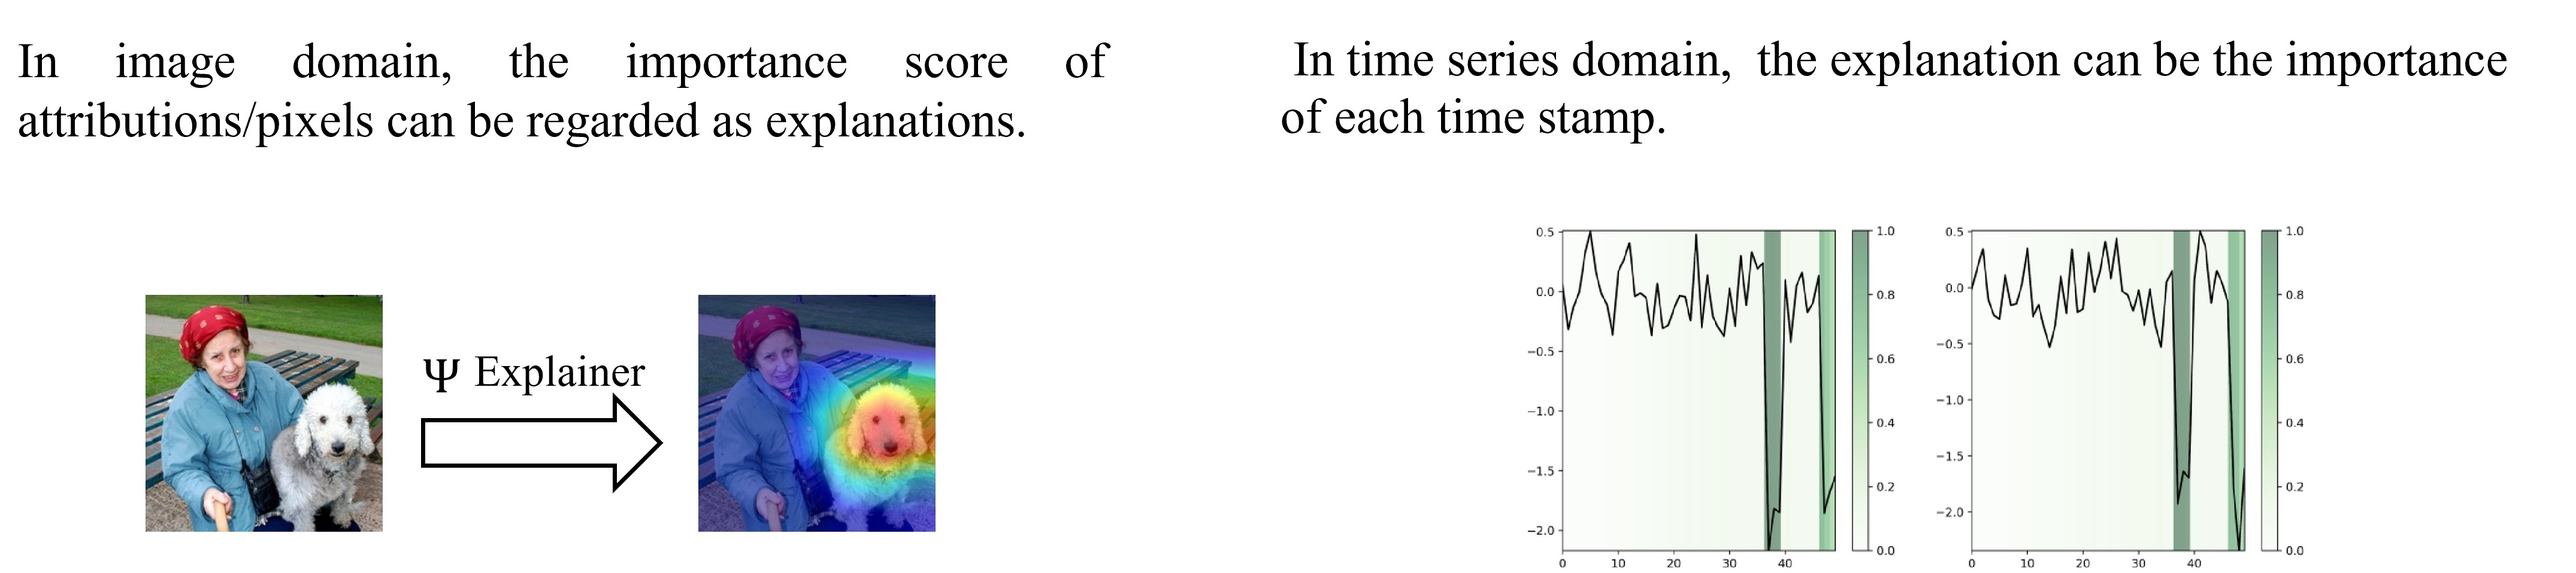
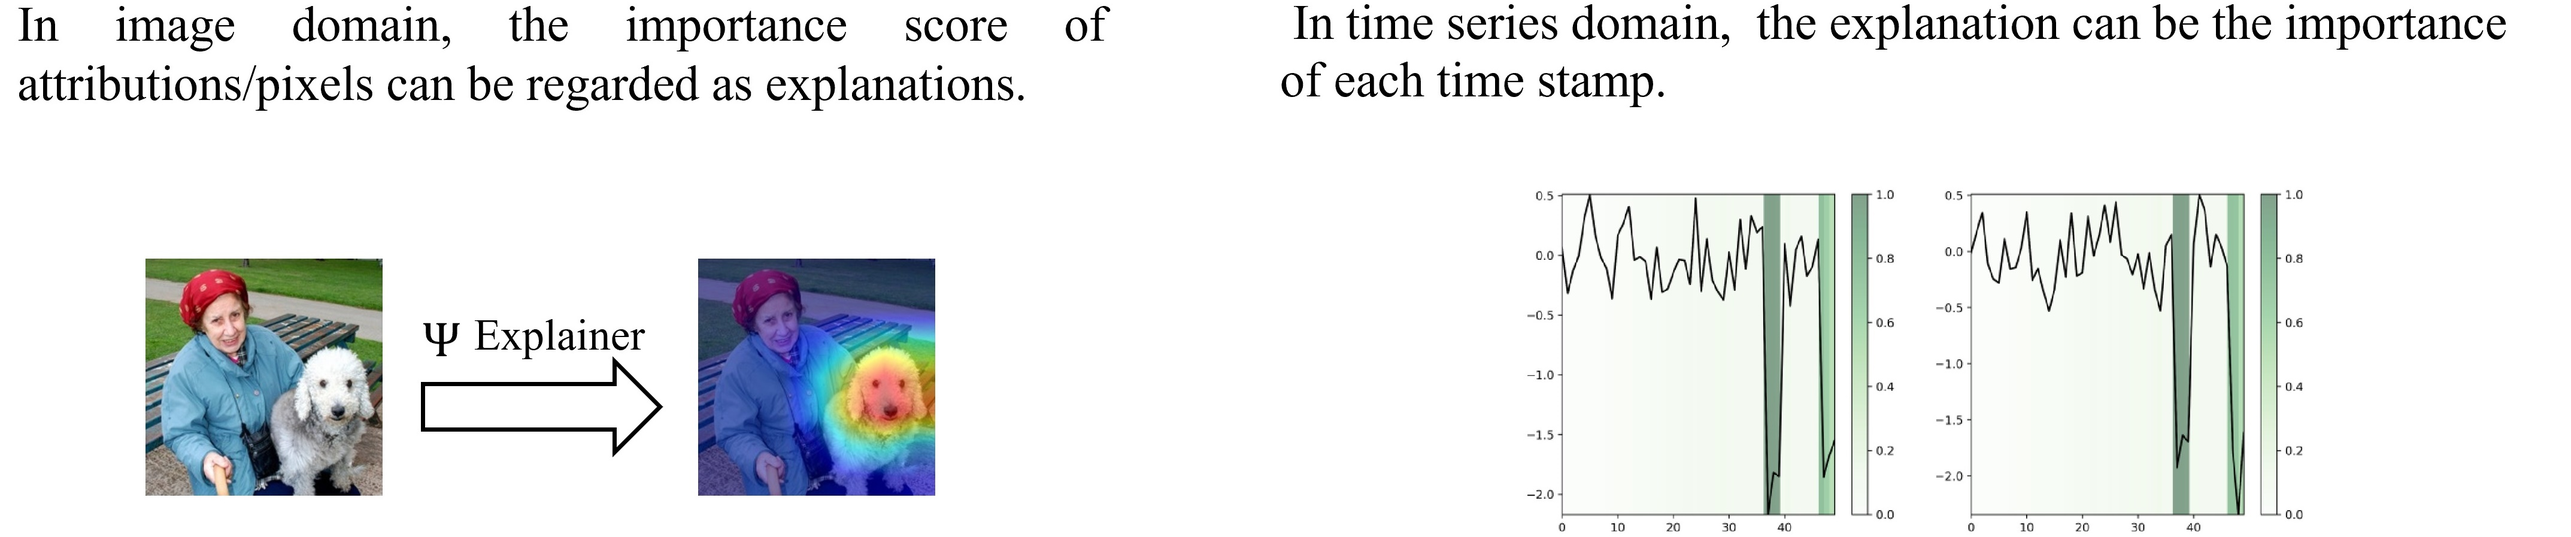
update ffidelity

diff --git a/_pages/ffidelity.md b/_pages/ffidelity.md
@@ -23,14 +23,11 @@ Furthermore, we show both theoretically and empirically that, given a faithful e
 ### Explaining Deep Learning Models
 In XAI, we first consider the attribution importance score as the explanation, indiating which part is important for deep learning model. For example, in image classification, the foreground is more important than background. For time series, the temporal pattern contains more information than random noise.
 <div style="display: flex; justify-content: center;">
-<!-- <center class="GT"> -->
 <table>
   <tr>
-    <!-- <td><img src="../images/ffidelity/ffid_page_7.png"  width = "50%" alt="" align=center /> </td> -->
     <td> <img src="../images/ffidelity/ffid_page_1.jpg"   style="width: 90%; height: auto; display: block; margin: 0 auto;" alt="" /> </td>
   </tr>
  </table>
-<!-- </center> -->
 </div>
 
 
@@ -41,14 +38,13 @@ How to evaluate the explanation method is a challenge. The evaluation methods ca
 Groundtruth-based methods are using the explanation ground truth to make comparison. In an image or sentence, it is for humans to understand the context concepts and know if the explanations are correct. However, in the graph and time series domain, humans extract context concepts hard. A tactical way is to compare ground truth with explanation results, so some common metrics, such as accuracy, recall, AUC, and etc, can be easily transferred to explainable AI. In graph explanation methods, some synthetic datasets, such as ba2shapes, and ba2motifs, are introduced to evaluate the explanation methods. 
 
 Groundtruth-free methods are measure the explanation from the aspects of robustness, faithfulness, and so on. In this project, we consider the faithfulness, which measure if the explantion is faithful to the prediction.
-
-<center class="eva">
+<div style="display: flex; justify-content: center;">
 <table>
   <tr>
-    <td><img src="../images/ffidelity/ffid_page_2.png"  width = "100%" alt="" align=center /> </td>
+    <td> <img src="../images/ffidelity/ffid_page_2.jpg"   style="width: 80%; height: auto; display: block; margin: 0 auto;" alt="" /> </td>
   </tr>
  </table>
-</center>
+</div>
 
 ### Fidelity and OOD Problems
 To evaluate the faithfulness of the explanation methods, the Fidelity method are introduced. The tuitive idea is if the explanation part is critical for the prediction model, the model can infer the results from explanation. On the contrary, the non-explanation part will cause the shifts of pridiction. We follow the previous paper [Robust Fidelity(R-Fidelity)](https://trustai4s-lab.github.io/fidelity.html) to use Fidelity as the basic metric.
